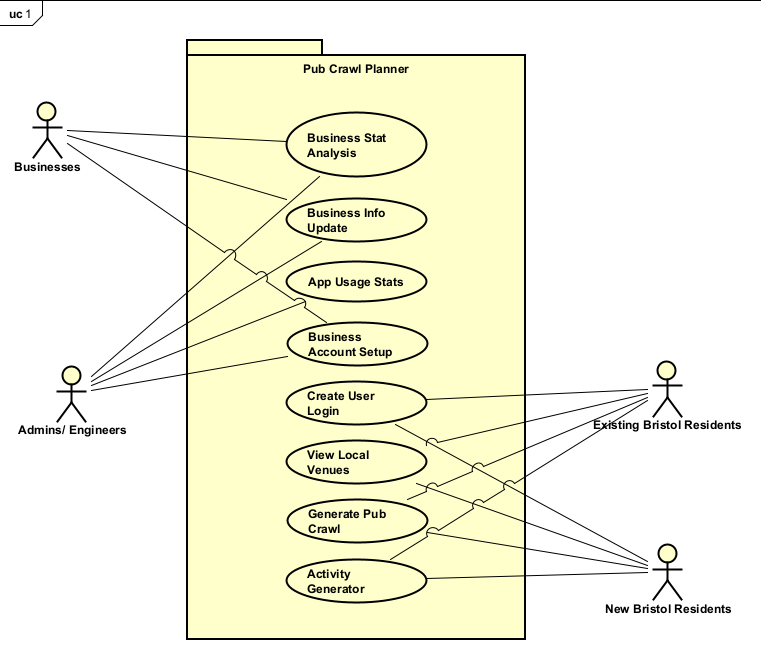
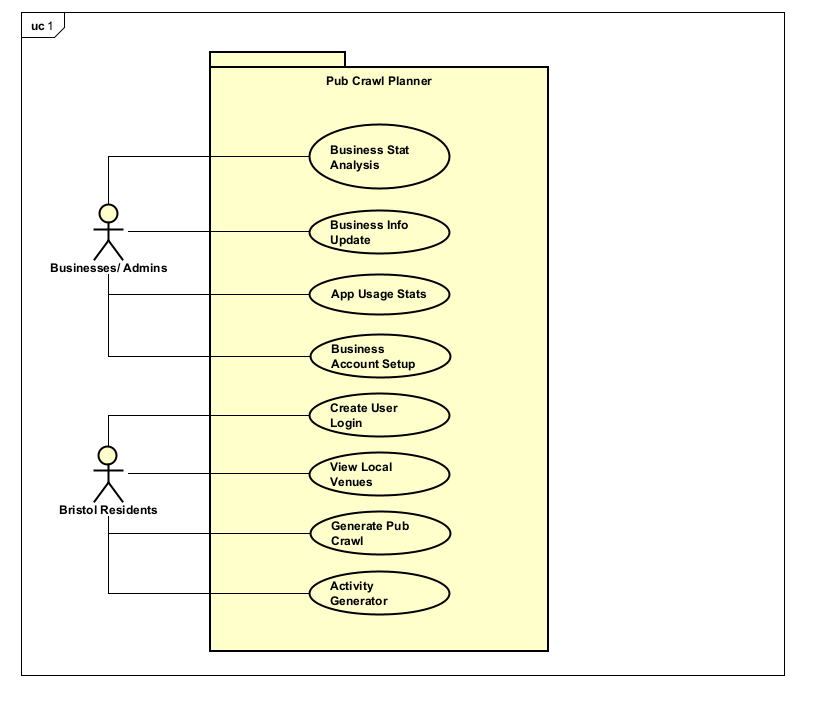
V21
- Responded to feedback on planning and requirement docs
- Started implementation doc

diff --git a/PubCrawlPlannerApp/filter.js b/PubCrawlPlannerApp/filter.js
@@ -49,7 +49,7 @@ function query() { // shows all items
 
 function search(searchTerm) { // shows items with partial match to search input
     let enc = encodeURIComponent(searchTerm);
-    let url = `https://maps2.bristol.gov.uk/server2/rest/services/ext/ll_leisure_and_culture/MapServer/14/query?where=&text=${enc}&outFields=*&f=json`;
+    let url = `https://maps2.bristol.gov.uk/server2/rest/services/ext/ll_leisure_and_culture/MapServer/14/query?where=&text=${enc}&outFields=MAPEAST,MAPNORTH,TYPE_OF_PREMISE,TRADING_NAME,TRADING_ADDRESS,BUSINESS_CONTACT&outSR=4326&f=json`;
     fetch(url).then(r=>r.json()).then(outputTable);
     document.querySelectorAll('.nav-bar .nav-button').forEach(btn => btn.classList.remove('active'));
 }

diff --git a/docs/requirements.md b/docs/requirements.md
@@ -3,9 +3,6 @@
 ## User Needs
 
 ### User stories
-TODO: Write brief user stories to explain how various actors would interact with the system to accomplish a goal.
-    Express these in the form from agile development:- As a (role) I want (goal) so that (benefit).
-
 - As a bar/ nightclub/ pub business in Bristol, I want to be able to view and analyse route data involving the business so that I can make changes to my strategies based on the data so that I can attract more customers and maintain a larger customer base.
 
 - As an admin/ engineer of the app, I want to be able to manage all information stored behind the scenes, including viewing, changing, adding and deleting data, so that the app stays up to date, and so that businesses can setup their user accounts through my confirmation.
@@ -15,6 +12,7 @@ TODO: Write brief user stories to explain how various actors would interact with
 - As someone who has lived in Bristol for 10+ years, I want to be able to make going out more fun by having activities to do on my pub crawl so that friends are more willing to come out and so nights out are more fun and interesting.
 
 ### Actors
+| Tyler |
 - Businesses (Bars, Pubs, Nightclubs): Businesses that will be included in the dataset and so will have an interest in the app as it can provide information about common pub crawl routes
     - View total number of times their venue has been included in generated crawl routes to help analyse business footfall
     - Update/ amend information displayed about their business on the site specifically (not Bristol database info) to keep users up to date on general business info, events and live music, and more
@@ -26,6 +24,7 @@ TODO: Write brief user stories to explain how various actors would interact with
     - View in depth details of each location
     - Setup business accounts so that they can access the necessary features
 
+| Connor |
 - New Bristol Residents: people who have recently moved to Bristol, with a high majority being students
     - View pubs, nightclubs and bars in the area
     - Create a pub crawl route for the night out
@@ -36,26 +35,15 @@ TODO: Write brief user stories to explain how various actors would interact with
     - View pubs, nightclubs and bars in the area
 
 ### Use Cases
-
-| TODO: USE-CASE ID e.g. UC1, UC2, ... | TODO: USE-CASE NAME | 
-| -------------------------------------- | ------------------- |
-| **Description** | TODO: Goal to be achieved by use case and sources for requirement |
-| **Actors** | TODO: List of actors involved in use case |
-| **Assumptions** | TODO: Pre/post-conditions if any |
-| **Steps** | TODO: Interactions between actors and system necessary to achieve goal |
-| **Variations** | TODO: OPTIONAL - Any variations in the steps of a use case |
-| **Non-functional** | TODO: OPTIONAL - List of non-functional requirements that the use case must meet. |
-| **Issues** | TODO: OPTIONAL - List of issues that remain to be resolved |
-
 | USE-CASE 1 | Business Stat Analysis - Tyler |
 | -------------------------------------- | ------------------- |
 | **Description** | View total times a venue has been used in a crawl |
 | **Actors** | Businesses, Admins/ Engineers |
 | **Assumptions** | Business/ Admin has login setup to access data |
 | **Steps** | 1. Get business data from venue database; 2. View statistics page |
-| **Variations** | 1. Not logged into a business account |
+| **Variations** | Not logged into a business account |
 | **Non-functional** | Should run on a variety of devices and browsers |
-| **Issues** |  |
+| **Issues** | Could collect inaccurate statistics if user reloads page, goes back and forwards between pages etc. |
 
 | USE-CASE 2 | Business Info Update - Tyler | 
 | -------------------------------------- | ------------------- |
@@ -63,9 +51,9 @@ TODO: Write brief user stories to explain how various actors would interact with
 | **Actors** | Businesses, Admins/ Engineers |
 | **Assumptions** | Business/ Admin has login setup to access data |
 | **Steps** | 1. Get business data from venue database; 2. View statistics page; 3. Accept user input; 4. Append data to venue database |
-| **Variations** |  |
+| **Variations** | Not logged into a business account |
 | **Non-functional** | Should run on a variety of devices and browsers |
-| **Issues** |  |
+| **Issues** | Would not be able to change data sourced from OpenData Bristol dataset |
 
 | USE-CASE 3 | App Usage Stats - Tyler |
 | -------------------------------------- | ------------------- |
@@ -73,9 +61,9 @@ TODO: Write brief user stories to explain how various actors would interact with
 | **Actors** | Admins/ Engineers |
 | **Assumptions** | Admin has login setup to access data |
 | **Steps** | 1. Get usage data from venues database; 2. View statistics page |
-| **Variations** | 1. Not logged into an admin account |
+| **Variations** | Not logged into an admin account |
 | **Non-functional** | Should run on a variety of devices and browsers |
-| **Issues** |  |
+| **Issues** | Could collect inaccurate statistics if user reloads page, goes back and forwards between pages etc. |
 
 | USE-CASE 4 | Business Account Setup - Tyler |
 | -------------------------------------- | ------------------- |
@@ -83,13 +71,13 @@ TODO: Write brief user stories to explain how various actors would interact with
 | **Actors** | Businesses, Admins/ Engineers |
 | **Assumptions** | Admin has login setup to access data; Each business already has unique login generated and stored in a database, waiting to be activated on businesses request |
 | **Steps** | 1. Get searched business' login info from login database; 2. View single-use login credentials |
-| **Variations** | 1. Business is not found in database (could be new) |
+| **Variations** |  Business is not found in database (could be new) |
 | **Non-functional** | Should run on a variety of devices and browsers |
 | **Issues** | Relies on admin to complete setup which could delay account being sorted |
 
 | USE-CASE 5 | Create User Login - Connor |
 | -------------------------------------- | ------------------- |
-| **Description** | How new users can create a their own account to loign. this can be used to access personalised features for their pub crawls. Some examples include: saving routes, showing a history of past pub crawls/routes  |
+| **Description** | How new users can create a their own account to login. This can be used to access *personalised* features for their pub crawls. Some examples include: saving routes, showing a history of past pub crawls/routes. They would *not* need a login to access all base features of the site, it would only give access to more personalised features |
 | **Actors** | Exsisting Bristol residents and new Bristol residents |
 | **Assumptions** | 1.The servers are online and can easily store new users and their data securely 2.Users can easily access login page 3. the user has a valid email address |
 | **Steps** |  1. User goes to 'Sign up' page to make an account 2. The user enters the details that the system requires like email and password 3. The system checks if the email has already been used  4. The system stores the users credentials in the database, confirming account creation  5. The user can now login |
@@ -127,31 +115,25 @@ TODO: Write brief user stories to explain how various actors would interact with
 | **Non-functional** | Should run on a variety of devices and browsers |
 | **Issues** | There may be arguments over whether a challenge was completed, repeated challenges may reduce enjoyment |
 
-![Insert your Use-Case Diagram Here](images/use-case.png)
+!images/use-case.png
 
 ## Software Requirements Specification
+
 ### Functional requirements
-TODO: create a list of functional requirements. 
-    e.g. "The system shall ..."
-    Give each functional requirement a unique ID. e.g. FR1, FR2, ...
-    Indicate which UC the requirement comes from.
-
     | Tyler |
+    FR1 - The system shall allow venue statistics to be accessed by businesses. - UC1
+    FR2 - The system shall allow businesses to update their information on the site. - UC2
+    FR3 - The system shall store app usage statistics. - UC3
+    FR4 - The system shall allow admins to access app usage statistics. - UC3
+    FR5 - The system shall allow admins to approve/ create logins for requesting businesses. - UC4
+    FR6 - The system shall store user login info - UC4, UC5
 
-    FR1 - The system shall store venue statistics and allow for later access by businesses. - UC1
-    FR2 - The system shall allow businesses to access and update their information on the site. - UC2
-    FR3 - The system shall store app usage statistics and allow for later access by admins. - UC3
-    FR4 - The system shall allow admins to approve/ create logins for requesting businesses. - UC4
-    FR5 - The system shall store user login info - UC4, UC5
+    | Connor |
 
 ### Non-Functional Requirements
-TODO: Consider one or more [quality attributes](https://en.wikipedia.org/wiki/ISO/IEC_9126) to suggest a small number of non-functional requirements.
-Give each non-functional requirement a unique ID. e.g. NFR1, NFR2, ...
-
-Indicate which UC the requirement comes from.
-
     | Tyler |
-
-    NFR1 - Accuracy: The system should store and provide accurate readings on venue statistics to businesses. - UC1
+    NFR1 - Accuracy: The system should provide accurate readings on venue statistics to businesses. - UC1
     NFR2 - Usability: The system should have an easy to use interface for businesses and admins to access information. - UC1, UC3
     NFR3 - Installability: The system should allow for easy business account setup by admins. - UC4
+
+    | Connor |

diff --git a/readme.md b/readme.md
@@ -1,5 +1,5 @@
 # Pub Quest
-Our project, Pub Quest, aims to provide users with a map of all nearby pubs, nightclubs, wine bars, and cafe bars, serving as a "pub crawl planner". We had plans to include many additional features including route generation, filtering of location types and, saving created routes, however, some features were cut during the development process as we realised we bit off more than we could chew. As a result, our apps features include: table display of all locations; filtering of said table by venue type; search functionality within the table; live, interactable map with functional pins.
+Our project, Pub Quest, aims to provide users with a map of all nearby pubs, nightclubs, wine bars, and cafe bars, serving as a "pub crawl planner". We had plans to include many additional features including route generation, filtering of location types, and saving created routes, however, some features were cut during the development process as we realised we bit off more than we could chew. As a result, our apps features include: table display of all locations; filtering of said table by venue type; search functionality within the table; live, interactable map with functional pins.
 
 The dataset we used gave us 483 records (currently), as well as a lot of data we could work with, including: UPRN, schedule, schedule_json, east, north, type, name, and address. We cut many of the fields such as UPRN and schedule, since this would not be necessary when it came to developing our app. We kept north and east values as stored variables for when it came to implementing our path finding, however, as this feature ended up being cut, these value became obsolete. We mainly worked with the type, name, and address of the premises.
 
@@ -22,7 +22,7 @@ https://guestie808.github.io/PubQuest/
 ## How to use
 
 ### Navigation
-On the left hand side, there are 3 *togglable* buttons, giving access to 4 different pages. While being toggleable, only one button can be active at a time. Buttons changes visually when toggled down.
+On the left hand side, there are 3 *togglable* buttons, giving access to 4 different pages. While being toggleable, only one button can be active at a time. Buttons changes visually when toggled on and off.
 
 ### Pages
 

diff --git a/docs/planning.md b/docs/planning.md
@@ -3,14 +3,13 @@ Pub Crawl Planner
 
 ## Business Case
 
-
 ### Problem statement
 - Our app aims to provide young to middle-aged adults, especially those new to Bristol, with a tool to discover new pubs and nightclubs in their general area, 
 or all across the city. This will help solve the problem that many new residents may face when moving new to a new city, which is the unfamiliarity of the area, 
 which can make it exceptionally hard to plan nights out with friends or family. However, not only will our web based application aid newcomers to Bristol, 
 it can also benefit users who are familiar with the city. The secondary problem we attempt to solve is the lack of activities that can be carried out on a 
 pub crawl/ night out, in turn potentially making the meeting fairly boring. By implementing some sort of pub crawl activity planner, this problem can be quite 
-easily tackled.
+easily tackled. We will use Bristol Open Data's "Pubs and Nightclubs" dataset to get all the data we need for this project.
 
 ### Business benefits
 - Provides easier way to organise a night out, encouraging exploration of local areas, espeicially to people new to the city.
@@ -70,8 +69,7 @@ easily tackled.
 - Login information must be secure, if not data could be prone to breach
 - Data (such as route data, personal info, etc) must be given permission to be stored/ shared with businesses as if not, it could breach data protection act
 
-## Project Scope // should be clear and include all relevant actors
-TODO: Scope of the System of Interest. Include a bullet list of things from your context diagram that are in scope.
+## Project Scope
 
 - OpenData Bristol Platform
 - App Hosting
@@ -85,4 +83,4 @@ TODO: Scope of the System of Interest. Include a bullet list of things from your
 - Acitivity Generator
 - Admins/ Engineers
 
-![Insert your Context Diagram Here](images/context.png)
+!images/context.png

diff --git a/docs/implementation.md b/docs/implementation.md
@@ -13,10 +13,20 @@ TODO: Describe the major components of your architecture. Are any particular arc
 ![Insert your component Diagram here](images/component.png)
 
 ## Bristol Open Data API
-TODO: Document each query to Bristol Open Data
+All APIs only return the following fields: MAPEAST, MAPNORTH, TYPE_OF_PREMISE, TRADING_NAME, TRADING_ADDRESS, BUSINESS_CONTACT
 
-![UML Class diagrams representing JSON query results](images/class1.png)
-TODO: Repeat as necessary
+Results with type being EXACT match to query - https://maps2.bristol.gov.uk/server2/rest/services/ext/ll_leisure_and_culture/MapServer/14/query?where=TYPE_OF_PREMISE%20%3D%20'${enc}'&outFields=MAPEAST,MAPNORTH,TYPE_OF_PREMISE,TRADING_NAME,TRADING_ADDRESS,BUSINESS_CONTACT&outSR=4326&f=json
+
+Results with type being SIMILAIR match to query - https://maps2.bristol.gov.uk/server2/rest/services/ext/ll_leisure_and_culture/MapServer/14/query?where=TYPE_OF_PREMISE%20%LIKE%20'${enc}'&outFields=MAPEAST,MAPNORTH,TYPE_OF_PREMISE,TRADING_NAME,TRADING_ADDRESS,BUSINESS_CONTACT&outSR=4326&f=json
+
+All results - https://maps2.bristol.gov.uk/server2/rest/services/ext/ll_leisure_and_culture/MapServer/14/query?where=1%3D1&outFields=MAPEAST,MAPNORTH,TYPE_OF_PREMISE,TRADING_NAME,TRADING_ADDRESS,BUSINESS_CONTACT&outSR=4326&f=json
+
+Results with any field with SIMILAIR match to search input - https://maps2.bristol.gov.uk/server2/rest/services/ext/ll_leisure_and_culture/MapServer/14/query?where=&text=${enc}&outFields=MAPEAST,MAPNORTH,TYPE_OF_PREMISE,TRADING_NAME,TRADING_ADDRESS,BUSINESS_CONTACT&outSR=4326&f=json
+
+!(images/exactClass.png)
+!(images/likeClass.png)
+!(images/allClass.png)
+!(images/searchClass.png)
 
 # User guide
 TODO: Explain how each use-case works by providing step-by-step screenshots for each use-case. This should be based on a tested scenario.

diff --git a/docs/contribution.md b/docs/contribution.md
@@ -1,3 +1,2 @@
-# TODO: Enter the contributions of each team member
-
-1. TEAM MEMBER CONTRIBUTION
+# Contributions
+Contributions are written inline with each item in the documents. If no name next to item, it means we both worked on it either in person or on call together on one device.

diff --git a/docs/design.md b/docs/design.md
@@ -1,7 +1,5 @@
 # Design
 
 ## User Interface design
-TODO: Specify and develop a user interface mockup using a wireframe.
-
-![Insert your wireframe/wireflow here](images/PubWireframe.png)
-TODO: repeat as necessary
+| Connor |
+!images/PubWireframe.png
